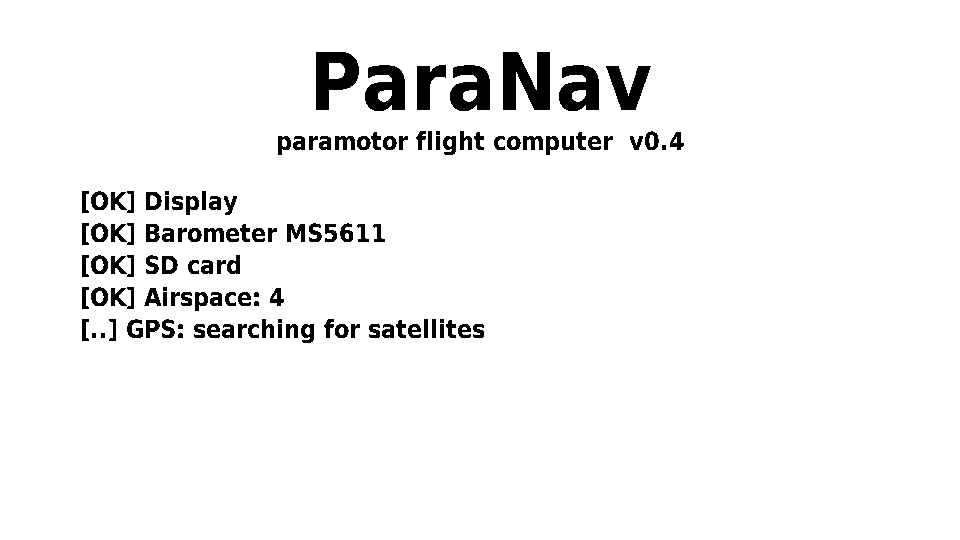
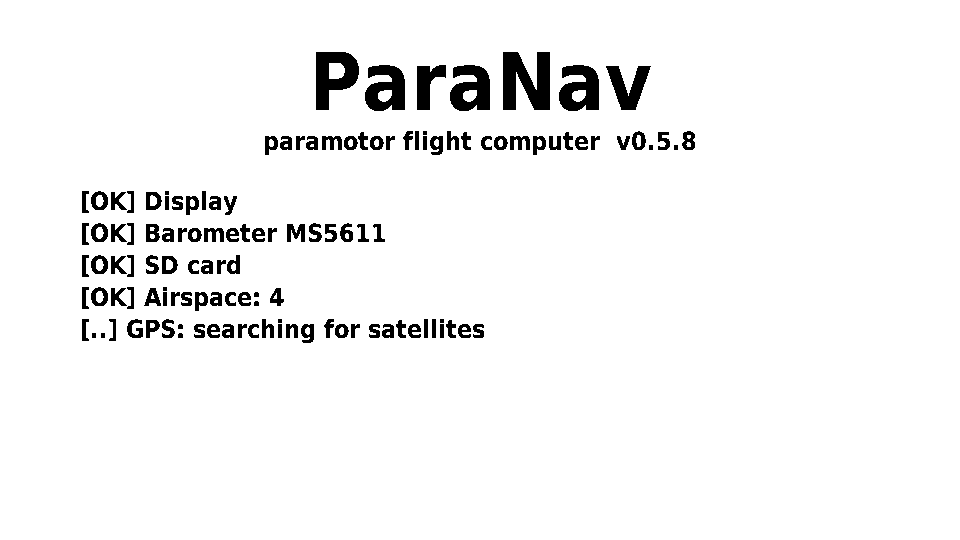
README: zrzuty ekranów przy opisach + odświeżone podglądy 0.5.8
- README.pl.md / README.md: 33 zrzuty przy tekstach, które je opisują
  (LOT/MAPA na początku, galeria wszystkich ekranów, przyciski i menu,
  USB, wyjście ze strefy, kontrola trasy, strefy, telefon, tryb USB,
  FANET, ekran startowy, SYSTEM z nową diagnostyką)
- docs/screens: zrzuty wygenerowane od nowa (nowy wiersz pamięci
  i czas rysowania na SYSTEM, wersja 0.5.8 na ekranie startowym)
- tools/preview: numer wersji z src/config.h zamiast "0.4"/"0.1",
  typowe wartości diagnostyki na ekranie SYSTEM
- tools/docs/make_screens.sh: odświeżanie zrzutów jednym poleceniem
- poprawione zdanie o "fikcyjnej mapie testowej" na TOPO (podgląd
  pokazuje ekran bez mapy podkładowej)

Claude-Session: https://claude.ai/code/session_011XfKyVFqAwC65NqrcskPcU

Changed region(s): [[0.2812, 0.237, 0.7188, 0.2963]]

diff --git a/tools/preview/preview.cpp b/tools/preview/preview.cpp
@@ -20,6 +20,7 @@
 #include "ui/menu.h"
 #include "ui/screens.h"
 #include "waypoints.h"
+#include "../../src/config.h"  // PARANAV_VERSION (only #defines)
 
 using namespace nav;
 
@@ -152,6 +153,8 @@ int main(int argc, char** argv) {
     sys.gpsModule = "u-blox MIA-M10Q"; sys.baroOk = true; sys.battSource = "BQ27220"; sys.backlight = true; sys.bfState = 3; sys.bfName = "BlueFly-7970"; sys.bfBattPct = 85; sys.bfRssi = -62; sys.i2cDevices = "20 51 55 5D 68 6B 77"; sys.recording = true;
     sys.logFile = "/sd/logs/2026-11-16-XPN-NAV-01.igc";
     sys.freeHeapKb = 180; sys.freePsramKb = 7600;
+    sys.psramFreeBlocks = 140; sys.renderMaxMs = 310;  // typical values on the device (diagnostics row)
+    sys.version = PARANAV_VERSION;
 
     ui::UiContext u;
     u.nav = &n; u.set = &set; u.asp = &asp; u.hits = &hits; u.wpts = &wp; u.route = &route;
@@ -269,7 +272,7 @@ int main(int argc, char** argv) {
     savePgm(out + "/C_power_hint.pgm");
     ui::drawPowerOff(c, TR("WYŁĄCZONY", "POWERED OFF"), TR("Włączanie: przycisk PWR lub podłączenie USB", "Power on: PWR button or USB"));
     savePgm(out + "/D_power_off.pgm");
-    ui::drawBoot(c, {TR("[OK] Wyświetlacz", "[OK] Display"), TR("[OK] Barometr MS5611", "[OK] Barometer MS5611"), TR("[OK] Karta SD", "[OK] SD card"), TR("[OK] Strefy: 4", "[OK] Airspace: 4"), TR("[..] GPS: szukam satelitów", "[..] GPS: searching for satellites")}, "0.4");
+    ui::drawBoot(c, {TR("[OK] Wyświetlacz", "[OK] Display"), TR("[OK] Barometr MS5611", "[OK] Barometer MS5611"), TR("[OK] Karta SD", "[OK] SD card"), TR("[OK] Strefy: 4", "[OK] Airspace: 4"), TR("[..] GPS: szukam satelitów", "[..] GPS: searching for satellites")}, PARANAV_VERSION);
     savePgm(out + "/B_boot.pgm");
     return 0;
 }

diff --git a/README.md b/README.md
@@ -10,6 +10,10 @@ Firmware for the **LilyGO T5 E-Paper S3 Pro** (ESP32-S3, 4.7″ 960×540 e-paper
 
 ParaNav is a flight computer for paramotor pilots, built on an off-the-shelf board with a large e-paper screen (readable in full sunlight, almost no power while the picture stays). It replaces a variometer, GPS navigation, fuel calculator and airspace warner in the cockpit – all on one screen, operated with two buttons (with gloves) or by touch.
 
+| FLIGHT screen | MAP screen |
+|:---:|:---:|
+| <img src="docs/screens/en/0_FLIGHT.png" width="100%" alt="FLIGHT screen"> | <img src="docs/screens/en/1_MAP.png" width="100%" alt="MAP screen"> |
+
 **In flight it shows:**
 * **altitude and vario** – from a wired barometer or a BlueFlyVario over Bluetooth (without a barometer: from GPS); height above takeoff and above the terrain, average climb, thermal gain,
 * **wind** – worked out on its own from a few turns, no extra sensors,
@@ -103,6 +107,8 @@ Changing the source restarts the vario filter (no false jump), and losing the ba
 
 **Wired sensor and full screen refreshes (0.5.2):** the e-paper high-voltage supply disturbs the wired MS5611 during a full refresh (about 2 m altitude jump, ±0.5 m/s on the vario). For the refresh and 1 s after it the vario ignores the wired readings and extrapolates with the last climb rate; isolated samples more than 1.5 m off the prediction are rejected as well (a jump that lasts 0.3 s is accepted as real). The SYSTEM screen shows `F a/b` next to the pressure: refreshes waited out / samples rejected. Hardware help: 10 µF + 100 nF across VCC–GND at the sensor, a short cable routed away from the display flex.
 
+<p align="center"><img src="docs/screens/en/8_SYSTEM.png" width="60%" alt="SYSTEM screen – barometer (F a/b), memory (RAM/PSRAM, “fr”) and redraw time (“draw”)"><br><sub>SYSTEM screen – barometer (F a/b), memory (RAM/PSRAM, “fr”) and redraw time (“draw”)</sub></p>
+
 ### Buttons
 On the schematic IO48 is a display line; the user button **S3 is connected through the PCA9535 expander (IO1_2)**. The second button is **BOOT (GPIO0)**.
 
@@ -117,9 +123,17 @@ On the schematic IO48 is a display line; the user button **S3 is connected throu
 
 **Power on / off:** the PWR button on the board or plugging in USB powers the device on. Power off: **hold both buttons (KEY + BOOT) for 3 s** (POWERING OFF… appears after 1 s, releasing cancels) or Menu → *Power off* → *YES*. The flight is saved and closed, and POWERED OFF stays on the screen. The BQ25896 charger then disconnects the battery. **Power off does not work while USB is connected** – that is how the charger chip works, not the firmware.
 
+| Both buttons held – powering off | Powered off |
+|:---:|:---:|
+| <img src="docs/screens/en/C_power_hint.png" width="100%" alt="Both buttons held – powering off"> | <img src="docs/screens/en/D_power_off.png" width="100%" alt="Powered off"> |
+
 Touch (bare fingers): top bar = menu, left edge = previous screen, right edge = next, MAP centre = change scale, TOPO upper/lower half = zoom in/out, TRAFFIC list = fly to the pilot, NAV = change target, FUEL = ±0.5 l / full tank / engine buttons. In the menu: tap an item to choose it; long lists have big **▲ / ▼** buttons on the right (page up / down).
 
 **Menu refresh:** the menu, help and the flight summary are static – they are redrawn only after a button press or a touch (no updates every second, no timed full refresh). A full refresh (flash) happens when the menu opens or closes and after every 20 moves inside it, so no ghosting builds up.
+
+| Menu | Editing a value in the menu |
+|:---:|:---:|
+| <img src="docs/screens/en/9_menu.png" width="100%" alt="Menu"> | <img src="docs/screens/en/9b_menu_edit.png" width="100%" alt="Editing a value in the menu"> |
 
 ### USB power: navigation, charging or files
 When USB power appears, ParaNav asks what to do (like action cameras): **NAVIGATION** (normal operation, e.g. a power bank in flight), **CHARGING** (static battery screen: navigation paused, FANET and BlueFly off, redrawn only when the percentage changes) or **FILES** (USB mode – offered only when a computer is on the other end of the cable). Tap a button, or KEY short = next / long = choose.
@@ -128,7 +142,9 @@ When USB power appears, ParaNav asks what to do (like action cameras): **NAVIGAT
 * **Never asked in flight** – a power bank plugged in during the flight just powers the device. After a crash restart (watchdog, panic, brownout) the device goes straight back to navigation.
 * Leaving charging: tap the screen, hold KEY, or **unplug USB** → navigation starts. Manual: Menu → System → *Charging mode*.
 
-Previews: `docs/screens/en/V_usb_question.png`, `W_charging.png`.
+| Question after plugging in USB | Charging mode |
+|:---:|:---:|
+| <img src="docs/screens/en/V_usb_question.png" width="100%" alt="Question after plugging in USB"> | <img src="docs/screens/en/W_charging.png" width="100%" alt="Charging mode"> |
 
 ### Airspace exit and route check
 When you enter active airspace (the zones that raise the INSIDE alert – ignored classes and zones inactive according to the AUP file do not count), the alert has two buttons:
@@ -142,14 +158,36 @@ Three ways are compared and the fastest one is shown:
 
 Screen: an arrow relative to your track (or a big CLIMB / DESCEND arrow with the target altitude), the zone name and the times of all three options. The plan is recomputed every second; the screen closes 10 s after you are out (by hand: hold KEY). Without the alert: Menu → Navigation → *Lead me out of airspace*.
 
+| INSIDE alert | EXIT – horizontal | EXIT – climb |
+|:---:|:---:|:---:|
+| <img src="docs/screens/en/Z_alert_inside.png" width="100%" alt="INSIDE alert"> | <img src="docs/screens/en/X_exit_level.png" width="100%" alt="EXIT – horizontal"> | <img src="docs/screens/en/X_exit_up.png" width="100%" alt="EXIT – climb"> |
+
 **Route check:** after choosing a route in Menu → Navigation → Choose route, or activating it from the phone, ParaNav checks which zones the route crosses (a sample every 100 m), using the terrain below the route and today's activation schedule. A conflict = a zone not known to be inactive with its floor below the height in Menu → Alarms → *Route check: flying up to* (default 1000 m AGL). The list is shown on the screen; the app receives the number of conflicts and shows it. The app also checks the route itself before sending (against the zones loaded on its map, without terrain and AUP – more cautious). Again: Menu → Navigation → *Check route – airspace*.
+
+<p align="center"><img src="docs/screens/en/Y_route_check.png" width="60%" alt="Route check – zones crossed by the route"><br><sub>Route check – zones crossed by the route</sub></p>
 
 ## Built-in help
 Menu → **Help**: buttons and touch, status bar, every screen, FANET, alerts, files on the SD card, maps and USB mode, automatic takeoff/landing/logging. The text is in `lib/navcore/src/ui/help.cpp` (Polish and English side by side); `tools/preview/layout_check.sh` checks in both languages that every page fits on the screen and that the font has all characters.
 
 ## Screens
 
-`FLIGHT → MAP → TOPO → TRAFFIC → NAV → THERMAL → AIRSPACE → FUEL → SYSTEM` (PNG previews in `docs/screens/en/`; the TOPO preview shows a fictional test map).
+`FLIGHT → MAP → TOPO → TRAFFIC → NAV → THERMAL → AIRSPACE → FUEL → SYSTEM` (switching: KEY / BOOT short or a touch on the left / right edge). The pictures below come from the `tools/preview/build.sh` preview – the same drawing code as on the device, a simulated flight with the sample data from `sd_card/`; TOPO is shown without a background map.
+
+| FLIGHT | MAP | TOPO (no background map) |
+|:---:|:---:|:---:|
+| <img src="docs/screens/en/0_FLIGHT.png" width="100%" alt="FLIGHT"> | <img src="docs/screens/en/1_MAP.png" width="100%" alt="MAP"> | <img src="docs/screens/en/2_TOPO.png" width="100%" alt="TOPO (no background map)"> |
+
+| TRAFFIC (FANET) | NAV | THERMAL |
+|:---:|:---:|:---:|
+| <img src="docs/screens/en/3_TRAFFIC.png" width="100%" alt="TRAFFIC (FANET)"> | <img src="docs/screens/en/4_NAV.png" width="100%" alt="NAV"> | <img src="docs/screens/en/5_THERMAL.png" width="100%" alt="THERMAL"> |
+
+| AIRSPACE | FUEL | SYSTEM |
+|:---:|:---:|:---:|
+| <img src="docs/screens/en/6_AIRSPACE.png" width="100%" alt="AIRSPACE"> | <img src="docs/screens/en/7_FUEL.png" width="100%" alt="FUEL"> | <img src="docs/screens/en/8_SYSTEM.png" width="100%" alt="SYSTEM"> |
+
+| Flight summary | Boot screen | Menu |
+|:---:|:---:|:---:|
+| <img src="docs/screens/en/A_summary.png" width="100%" alt="Flight summary"> | <img src="docs/screens/en/B_boot.png" width="100%" alt="Boot screen"> | <img src="docs/screens/en/9_menu.png" width="100%" alt="Menu"> |
 
 Look (0.5.3): content is grouped in rounded "cards" (2 px frame, 6 px gaps), the status bar is black like the menu title, warnings are rounded black bars, touch buttons have a small shadow, and the vario bar is a rounded scale with a bold zero line. Everything is pure black and white – grey does not survive the fast (DU) e-paper refresh. Drawing helpers: `Canvas::roundRect / fillRoundRect / invertRoundRect`, `card()` and `pill()` in `screens.cpp`.
 
@@ -162,6 +200,10 @@ Airspace interiors are hatched, not grey. The fast e-paper refresh (every second
 
 Only active airspace relevant at your altitude is hatched: you are within its vertical limits or closer than 2× the vertical buffer (min. 150 m). Airspace far above or below you has an outline only, inactive airspace a dashed outline.
 
+| Airspace on the MAP | AIRSPACE screen with the vertical profile |
+|:---:|:---:|
+| <img src="docs/screens/en/1_MAP.png" width="100%" alt="Airspace on the MAP"> | <img src="docs/screens/en/6_AIRSPACE.png" width="100%" alt="AIRSPACE screen with the vertical profile"> |
+
 ## Routes: planning and choosing
 
 * **Planning – Android app** → "Plan a new route on the map" / "My routes". OpenTopoMap map (topographic), the airspace and waypoints you sent to ParaNav (or added in the planner menu) are shown on it. Tap the map = add a point (tapping a known waypoint uses its name and elevation), tap a point = name / landing field / insert before / delete, hold and drag = move, ↶ = undo, ⤢ = whole route. Below the map: legs with distance and course, total length and time at your cruise speed. Routes are saved on the phone automatically; they can be exported/imported as `.cup`.
@@ -173,6 +215,10 @@ Map tiles: © OpenStreetMap contributors, SRTM | map style © OpenTopoMap (CC-BY
 
 ## Uploading files from a phone (Android)
 The app in `android/` (build instructions: `android/README.md`) sends airspace (OpenAir), today's activations, waypoints and routes (.cup) via Bluetooth – without removing the SD card. ParaNav checks every file before saving and loads it immediately; during the upload a progress bar is shown at the bottom of the screen and "TEL" in the status bar. On/off: Menu → System → Phone (Bluetooth). The app is in English, or in Polish when the phone is set to Polish.
+
+| Receiving a file from the phone | SYSTEM screen – result from the phone |
+|:---:|:---:|
+| <img src="docs/screens/en/E_receiving.png" width="100%" alt="Receiving a file from the phone"> | <img src="docs/screens/en/F_system_phone.png" width="100%" alt="SYSTEM screen – result from the phone"> |
 
 ## SD card (FAT32)
 
@@ -262,6 +308,8 @@ Size: Gdańsk 100 km, z10–z14 – roughly 20–60 MB (sea and solid forest tak
 
 Several areas on the card (e.g. `maps/gdansk`, `maps/holiday`) – the device picks the one covering your position. SYSTEM → "Terrain / map" shows the terrain tiles and the name of the active map.
 
+<p align="center"><img src="docs/screens/en/U_usb.png" width="60%" alt="USB mode – SD card as a drive"><br><sub>USB mode – SD card as a drive</sub></p>
+
 ## FANET – other pilots (LoRa 868 MHz)
 
 The on-board SX1262 module speaks the open **FANET** protocol (868.2 MHz, LoRa SF7/250 kHz, [specification](https://github.com/3s1d/fanet-stm32/blob/master/Src/fanet/radio/protocol.txt)) – the one used by Skytraxx, XC Tracer, Naviter (FANET+), Burnair, Leaf, GXAirCom, SoftRF. **FLARM is not supported** (closed, encrypted protocol) – aircraft and gliders with FLARM only do not see ParaNav, and ParaNav does not see them.
@@ -271,6 +319,10 @@ The on-board SX1262 module speaks the open **FANET** protocol (868.2 MHz, LoRa S
 * **Display:** MAP and TOPO – arrows with height difference; **TRAFFIC** screen – list and track-up radar, tapping a pilot makes him the navigation target; status bar **FN n**.
 * **Warnings** (in flight only): closest point of approach predicted 60 s ahead, assuming constant tracks and speeds. *Caution* (TRAFFIC box in the top right of any screen): closer than the distance limit (default 300 m) and height limit (100 m), or such an approach predicted within 45 s. *Alarm* (TRAFFIC! bar with the clock position): half the limits or within 20 s. Limits and on/off: Menu → FANET.
 * **Internal antenna** – the range depends on where the device sits (cage metal, the pilot's body). Check on the ground with a friend, or on glidernet.org, that your position gets through.
+
+| TRAFFIC screen – list and radar | Traffic caution on another screen |
+|:---:|:---:|
+| <img src="docs/screens/en/3_TRAFFIC.png" width="100%" alt="TRAFFIC screen – list and radar"> | <img src="docs/screens/en/R_traffic_hint.png" width="100%" alt="Traffic caution on another screen"> |
 
 > FANET is an aid to lookout, not a collision avoidance system: positions arrive every ~5 s and not everyone carries a transmitter. Keep a lookout.
 
@@ -296,12 +348,15 @@ No PlatformIO needed: **Releases** has the files of every version – `paranav-<
 * `tools/android_planner_test/run.sh` – route planner helpers of the app (coordinates, `.cup` writing/reading, OpenAir parser) and a cross-check: a `.cup` written by the app is read by the firmware.
 * `tools/preview/layout_check.sh` – renders every screen, menu, alert and the boot screen in normal, "nothing works" and extreme situations (9999 m, -12.3 m/s, 999 km, long airspace and waypoint names...), in both languages. Reports every text that leaves the screen, overlaps another text or crosses a separator line.
 * `tools/preview/build.sh` – simulates a flight and renders all screens to PNG (`/tmp/preview`), with the same UI code as the device. `PARANAV_LANG=en` for English.
+* `tools/docs/make_screens.sh` – refreshes the README screenshots (`docs/screens/pl`, `docs/screens/en`).
 
 ## Restarts and crash reports
 
 Every start is logged in **`/logs/restarts.txt`** (reset reason, how long the previous run lasted, its last action, battery voltage). Every unexpected restart also gets a full report **`/logs/crash-NN.txt`**: reason (software error, watchdog, brownout, power lost without powering off), the state just before (battery, USB, screen, flying, FANET, lowest free memory), the last ~12 actions with times and – for software errors and watchdogs – the backtrace for decoding with `firmware.elf`. The report is written right after the SD card is mounted, before any data is loaded, so a crash while loading is reported too.
 
 After **3 crashes in a row** within 2 minutes of starting, ParaNav starts in **safe mode**: Bluetooth (BlueFly, phone), FANET and TOPO maps stay off for that run, so the device remains usable and the reports can be copied (e.g. in USB mode). The next start after 5 minutes of normal running is normal again.
+
+<p align="center"><img src="docs/screens/en/B_boot.png" width="60%" alt="Boot screen – sensors and data status"><br><sub>Boot screen – sensors and data status</sub></p>
 
 ## Things to check on the hardware (first start)
 1. **Orientation** – if the picture is upside down: Menu → Display and map → Rotate screen 180°.
